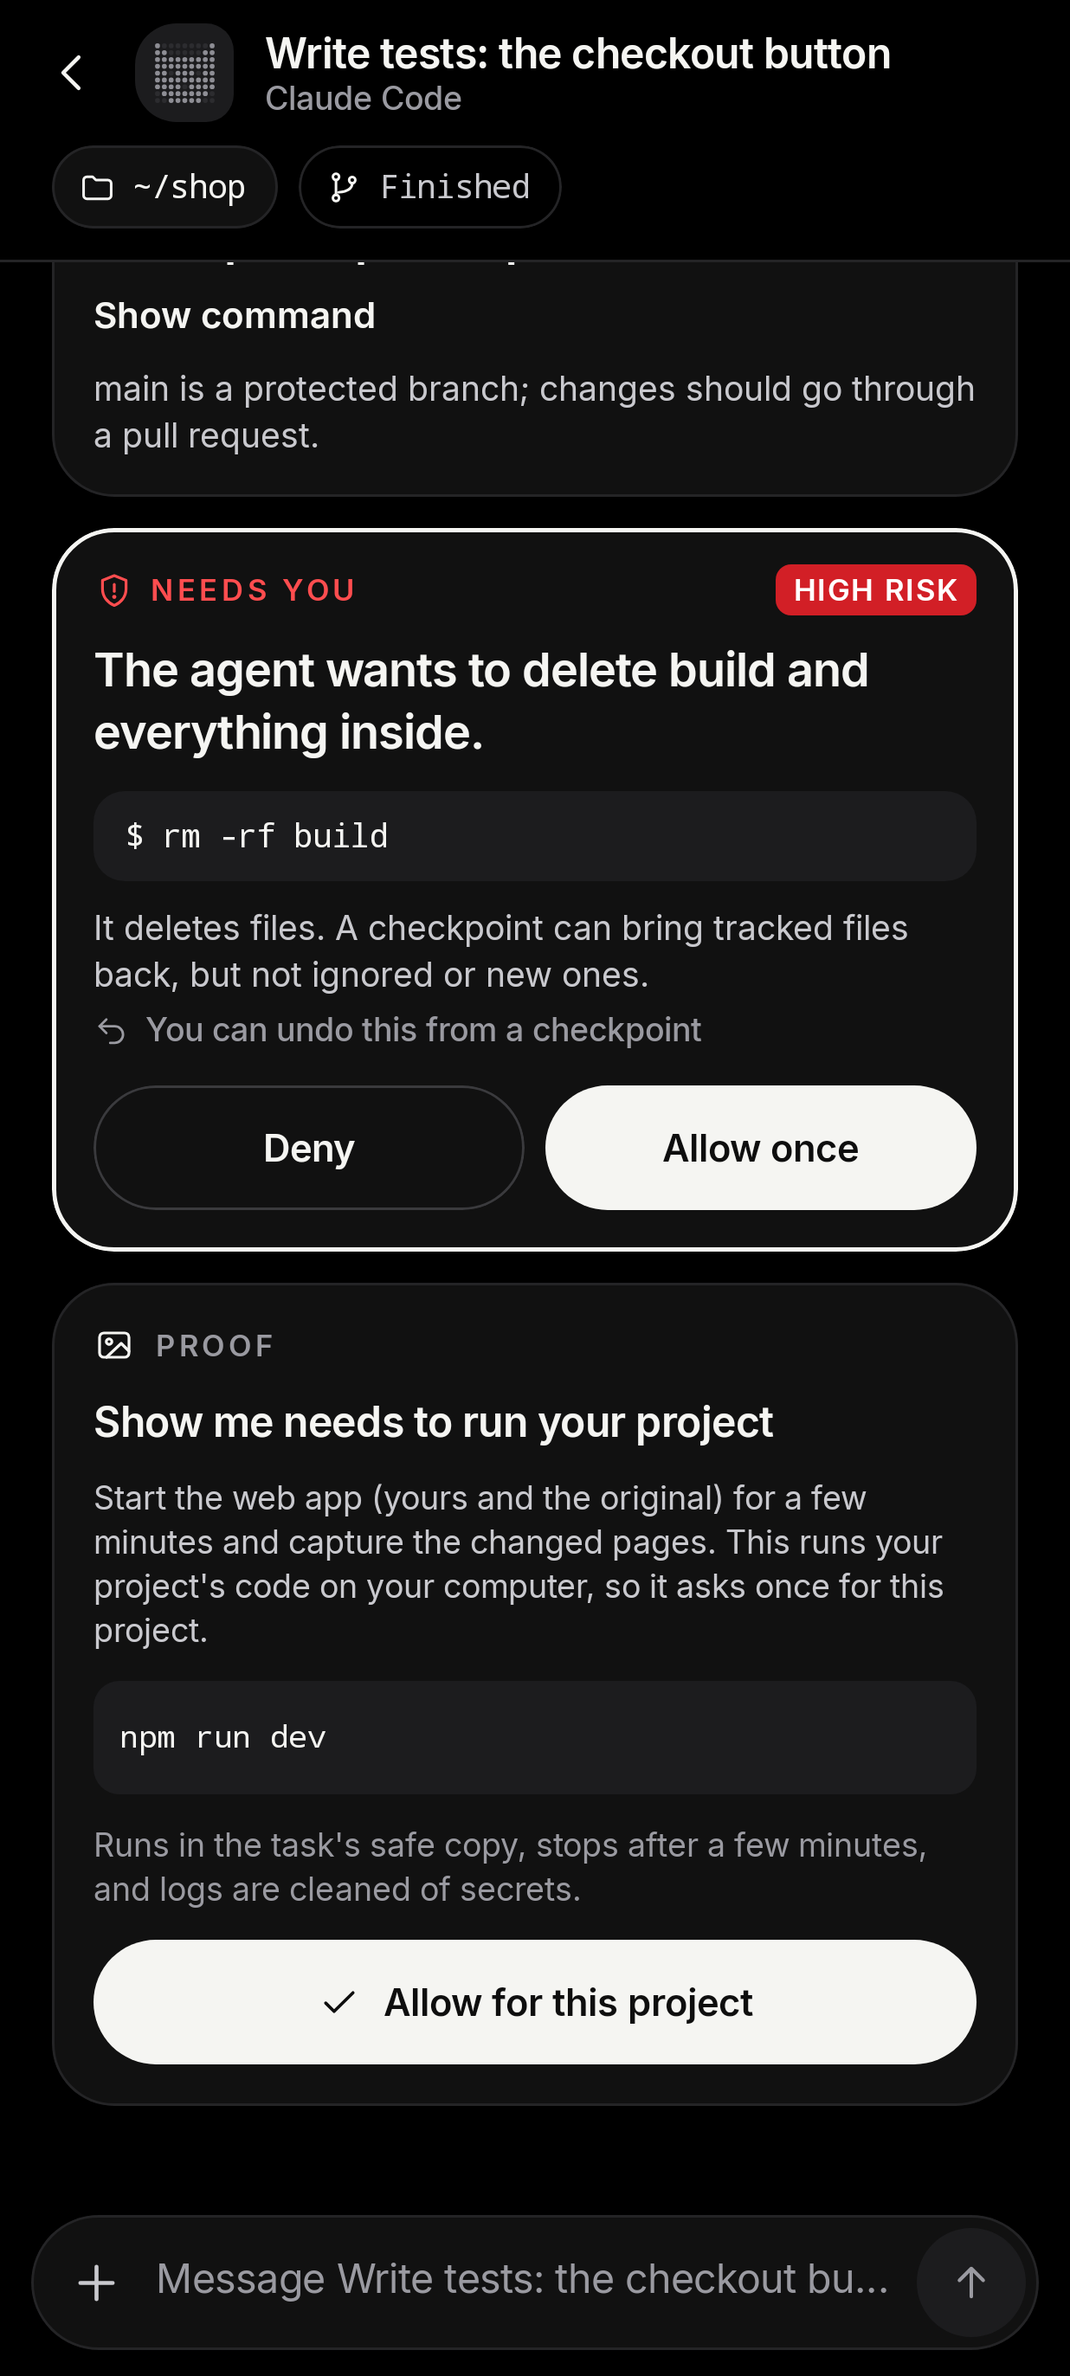
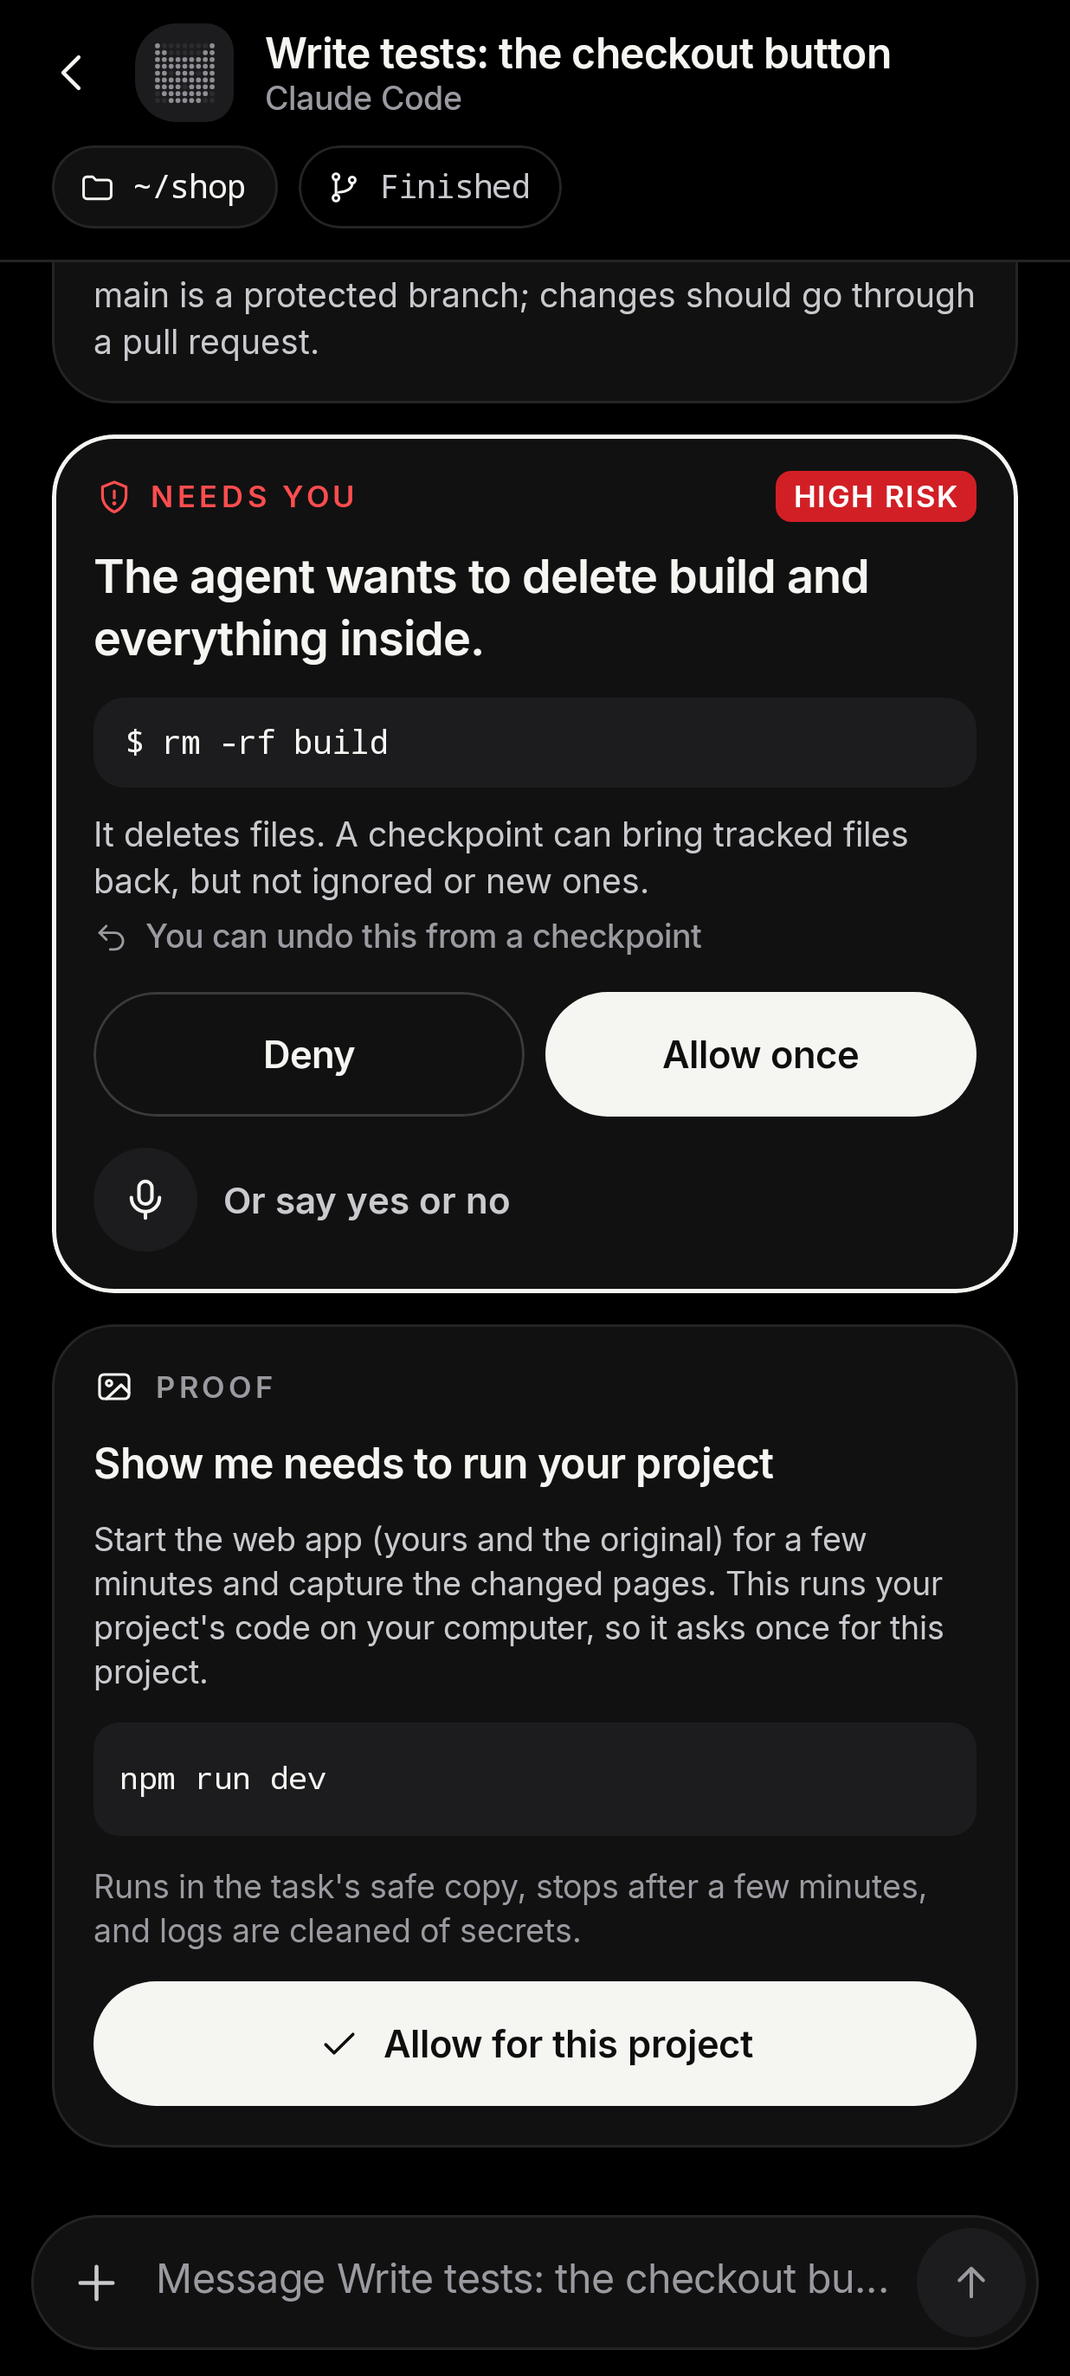
Android: chat/proof cards clear the composer, folder-picker action group, proof needs Git (no false 'Couldn't make the proof')

diff --git a/apps/android/app/src/test/java/com/ragul84/hypurr/ui/InsetsScreenshotTest.kt b/apps/android/app/src/test/java/com/ragul84/hypurr/ui/InsetsScreenshotTest.kt
@@ -1,0 +1,99 @@
+package com.ragul84.hypurr.ui
+
+import androidx.activity.ComponentActivity
+import androidx.compose.foundation.background
+import androidx.compose.foundation.layout.Box
+import androidx.compose.foundation.layout.BoxScope
+import androidx.compose.foundation.layout.fillMaxSize
+import androidx.compose.foundation.layout.fillMaxWidth
+import androidx.compose.foundation.layout.height
+import androidx.compose.runtime.Composable
+import androidx.compose.ui.Alignment
+import androidx.compose.ui.Modifier
+import androidx.compose.ui.graphics.Color
+import androidx.compose.ui.test.junit4.createAndroidComposeRule
+import androidx.compose.ui.test.onNodeWithText
+import androidx.compose.ui.test.onRoot
+import androidx.compose.ui.test.performClick
+import androidx.compose.ui.unit.Dp
+import androidx.compose.ui.unit.dp
+import androidx.core.graphics.Insets
+import androidx.core.view.ViewCompat
+import androidx.core.view.WindowInsetsCompat
+import com.github.takahirom.roborazzi.captureRoboImage
+import com.ragul84.hypurr.data.ThemeMode
+import com.ragul84.hypurr.model.DirListing
+import com.ragul84.hypurr.model.DirEntry
+import com.ragul84.hypurr.model.Proof
+import com.ragul84.hypurr.ui.screens.ChatScreen
+import com.ragul84.hypurr.ui.screens.ProjectFolderPickerScreen
+import com.ragul84.hypurr.ui.screens.ProofCard
+import com.ragul84.hypurr.ui.theme.HypurrTheme
+import org.junit.Rule
+import org.junit.Test
+import org.junit.runner.RunWith
+import org.robolectric.RobolectricTestRunner
+import org.robolectric.annotation.Config
+import org.robolectric.annotation.GraphicsMode
+import java.io.File
+
+/**
+ * Edge-to-edge check: real system-bar insets (status bar plus gesture or 3-button nav) are dispatched
+ * to the window, and the bars are painted translucent on top, so anything drawn under them shows.
+ * Shots: android-insets-<screen>-<small|large>-<gesture|buttons>.png
+ */
+@RunWith(RobolectricTestRunner::class)
+@GraphicsMode(GraphicsMode.Mode.NATIVE)
+@Config(sdk = [35], qualifiers = "w360dp-h640dp-xxhdpi", application = android.app.Application::class)
+class InsetsScreenshotTest {
+    @get:Rule val compose = createAndroidComposeRule<ComponentActivity>()
+    private val dir get() = File(System.getProperty("roborazzi.output.dir") ?: "build/roborazzi").apply { mkdirs() }
+
+    private fun shoot(name: String, nav: Dp, then: () -> Unit = {}, content: @Composable () -> Unit) {
+        compose.setContent {
+            HypurrTheme(ThemeMode.Dark) {
+                Box(Modifier.fillMaxSize()) {
+                    content()
+                    Bars(nav)
+                }
+            }
+        }
+        val px = { d: Dp -> (d.value * compose.activity.resources.displayMetrics.density).toInt() }
+        val insets = WindowInsetsCompat.Builder()
+            .setInsets(WindowInsetsCompat.Type.statusBars(), Insets.of(0, px(24.dp), 0, 0))
+            .setInsets(WindowInsetsCompat.Type.navigationBars(), Insets.of(0, 0, 0, px(nav)))
+            .build()
+        compose.runOnUiThread { ViewCompat.dispatchApplyWindowInsets(compose.activity.window.decorView, insets) }
+        compose.waitForIdle()
+        then()
+        compose.waitForIdle()
+        compose.onRoot().captureRoboImage(File(dir, "android-insets-$name.png").absolutePath)
+    }
+
+    @Composable
+    private fun BoxScope.Bars(nav: Dp) {
+        Box(Modifier.align(Alignment.TopCenter).fillMaxWidth().height(24.dp).background(Color(0x66FF00FF)))
+        Box(Modifier.align(Alignment.BottomCenter).fillMaxWidth().height(nav).background(Color(0x66FF00FF)))
+    }
+
+    private val cRoot = DirListing(path = "C:\\", parent = "", isRoot = true, dirs = listOf(DirEntry("Users", "C:\\Users"), DirEntry("work", "C:\\work")))
+
+    private fun picker(name: String, nav: Dp) = shoot(name, nav, then = { compose.onNodeWithText("Use whole drive C:").performClick() }) {
+        ProjectFolderPickerScreen(emptyList(), cRoot, "C:\\", onBack = {}, onBrowse = {}, onSelect = {}, onConfirm = {})
+    }
+
+    private fun chat(name: String, nav: Dp) = shoot(name, nav) {
+        ChatScreen(Samples.taskBot.copy(task = Samples.task.copy(status = "done"), status = "idle"), Samples.taskChat, "", {},
+            onBack = {}, onSend = {}, onStop = {}, onRespond = { _, _ -> }, now = Samples.NOW,
+            proof = { ProofCard(Proof(status = "unavailable", note = "Proof compares the task's changes with where it started, so it needs this folder to be a Git project.")) })
+    }
+
+    @Test fun pickerSmallGesture() = picker("folder-picker-small-gesture", 24.dp)
+    @Test fun pickerSmallButtons() = picker("folder-picker-small-buttons", 48.dp)
+    @Test @Config(qualifiers = "w800dp-h1280dp-xhdpi") fun pickerLargeGesture() = picker("folder-picker-large-gesture", 24.dp)
+    @Test @Config(qualifiers = "w800dp-h1280dp-xhdpi") fun pickerLargeButtons() = picker("folder-picker-large-buttons", 48.dp)
+    @Test fun chatSmallGesture() = chat("chat-small-gesture", 24.dp)
+    @Test fun chatSmallButtons() = chat("chat-small-buttons", 48.dp)
+    @Test @Config(qualifiers = "w800dp-h1280dp-xhdpi") fun chatLargeGesture() = chat("chat-large-gesture", 24.dp)
+    @Test @Config(qualifiers = "w800dp-h1280dp-xhdpi") fun chatLargeButtons() = chat("chat-large-buttons", 48.dp)
+}

diff --git a/apps/android/app/src/main/java/com/ragul84/hypurr/ui/screens/ProjectFolderPickerScreen.kt b/apps/android/app/src/main/java/com/ragul84/hypurr/ui/screens/ProjectFolderPickerScreen.kt
@@ -12,6 +12,7 @@ import androidx.compose.runtime.setValue
 import androidx.compose.ui.text.style.TextOverflow
 import androidx.compose.foundation.layout.Arrangement
 import androidx.compose.foundation.layout.Column
+import androidx.compose.ui.text.style.TextAlign
 import androidx.compose.foundation.layout.Row
 import androidx.compose.foundation.layout.Spacer
 import androidx.compose.foundation.layout.fillMaxSize
@@ -105,28 +106,32 @@ fun ProjectFolderPickerScreen(
                 }
             }
         }
-        if (pickedRoot && rootWarned) {
-            Text("The agent can see and change everything on this drive.", color = c.needsText,
-                style = MaterialTheme.typography.bodySmall, modifier = Modifier.padding(bottom = 6.dp))
-        }
-        if (!atTop && browsing != null && selectedPath != browsing.path) {
-            SoftButton("Use this folder", Modifier.fillMaxWidth().padding(bottom = 8.dp), icon = signalIcon(SignalIcons.Check), tint = c.text) {
-                onSelect(browsing.path)
+        // One action group above the nav bar: a hairline, then the warning centered directly
+        // over the button it belongs to.
+        Box(Modifier.fillMaxWidth().height(1.dp).background(c.border))
+        Column(Modifier.fillMaxWidth().padding(top = 12.dp, bottom = 16.dp), verticalArrangement = Arrangement.spacedBy(8.dp),
+            horizontalAlignment = Alignment.CenterHorizontally) {
+            if (!atTop && browsing != null && selectedPath != browsing.path) {
+                SoftButton("Use this folder", Modifier.fillMaxWidth(), icon = signalIcon(SignalIcons.Check), tint = c.text) {
+                    onSelect(browsing.path)
+                }
             }
-        }
-        PrimaryButton(
-            when {
-                selectedPath == null -> "Pick a folder first"
-                pickedRoot && !rootWarned -> "Use whole drive ${folderName(selectedPath)}"
-                pickedRoot -> "Yes, use the whole drive"
-                else -> confirmLabel ?: "Use ${folderName(selectedPath)}"
-            },
-            Modifier.fillMaxWidth().padding(bottom = if (onLater != null) 10.dp else 16.dp),
-            enabled = selectedPath != null,
-            onClick = { if (pickedRoot && !rootWarned) rootWarned = true else onConfirm() },
-        )
-        if (onLater != null) {
-            SoftButton("Later", Modifier.fillMaxWidth().padding(bottom = 16.dp), tint = c.text, onClick = onLater)
+            if (pickedRoot && rootWarned) {
+                Text("The agent can see and change everything on this drive.", color = c.needsText,
+                    style = MaterialTheme.typography.bodySmall, textAlign = TextAlign.Center, modifier = Modifier.fillMaxWidth())
+            }
+            PrimaryButton(
+                when {
+                    selectedPath == null -> "Pick a folder first"
+                    pickedRoot && !rootWarned -> "Use whole drive ${folderName(selectedPath)}"
+                    pickedRoot -> "Yes, use the whole drive"
+                    else -> confirmLabel ?: "Use ${folderName(selectedPath)}"
+                },
+                Modifier.fillMaxWidth(),
+                enabled = selectedPath != null,
+                onClick = { if (pickedRoot && !rootWarned) rootWarned = true else onConfirm() },
+            )
+            if (onLater != null) SoftButton("Later", Modifier.fillMaxWidth(), tint = c.text, onClick = onLater)
         }
     }
 }

diff --git a/apps/android/app/src/main/java/com/ragul84/hypurr/ui/screens/ChatScreen.kt b/apps/android/app/src/main/java/com/ragul84/hypurr/ui/screens/ChatScreen.kt
@@ -52,6 +52,8 @@ import androidx.compose.animation.slideOutVertically
 import androidx.compose.foundation.layout.height
 import androidx.compose.ui.Alignment
 import androidx.compose.ui.Modifier
+import androidx.compose.ui.layout.onSizeChanged
+import androidx.compose.ui.platform.LocalDensity
 import androidx.compose.ui.draw.clip
 import androidx.compose.ui.draw.scale
 import androidx.compose.ui.graphics.SolidColor
@@ -180,13 +182,17 @@ fun ChatScreen(
     var actionsFor by remember { mutableStateOf(initialActionsFor?.let { id -> (entries + listOfNotNull(threadRoot)).firstOrNull { it.id == id } }) }
     var viewing by remember { mutableStateOf<Attachment?>(null) }
     val media = AttachmentUi(images, onLoadAttachment, onOpenFile) { viewing = it }
+    // The list clears the real header and composer (status bar, nav bar, keyboard, chips, files),
+    // measured rather than guessed, so the newest card is never hidden behind the composer.
+    val density = LocalDensity.current
+    var headerHeight by remember { mutableStateOf(92.dp) }
+    var composerHeight by remember { mutableStateOf(104.dp) }
     Box(Modifier.fillMaxSize().background(c.bg)) {
         LazyColumn(
             Modifier.fillMaxSize(),
             state = list,
             reverseLayout = true,
-            contentPadding = PaddingValues(start = 20.dp, end = 20.dp, top = 92.dp + (if (folder != null || task != null) 48.dp else 0.dp),
-                bottom = if (composer.files.isEmpty()) 104.dp else 172.dp),
+            contentPadding = PaddingValues(start = 20.dp, end = 20.dp, top = headerHeight + 12.dp, bottom = composerHeight + 16.dp),
             verticalArrangement = Arrangement.spacedBy(12.dp),
         ) {
             if (proof != null && !inThread) item(key = "proof") { Box(Modifier.animateItem()) { proof() } }
@@ -212,7 +218,8 @@ fun ChatScreen(
             } else if (chat.isEmpty()) item(key = "empty") { EmptyChat(bot, bots) }
         }
         // Signal header: bare back chevron, bot tile, name + agent line, more. Chips row under a hairline.
-        Column(Modifier.fillMaxWidth().background(c.bg).statusBarsPadding()) {
+        Column(Modifier.fillMaxWidth().background(c.bg).statusBarsPadding()
+            .onSizeChanged { headerHeight = with(density) { it.height.toDp() } }) {
             Row(Modifier.padding(start = 8.dp, end = 8.dp, top = 8.dp, bottom = 8.dp), verticalAlignment = Alignment.CenterVertically) {
                 IconTile(signalIcon(SignalIcons.Back), "Back", onClick = onBack)
                 Spacer(Modifier.width(4.dp))
@@ -247,7 +254,8 @@ fun ChatScreen(
             }
             Box(Modifier.fillMaxWidth().height(1.dp).background(c.border))
         }
-        Composer(draft, onDraftChange, onSend, Modifier.align(Alignment.BottomCenter), composer, images, onAttach, onRemoveFile,
+        Composer(draft, onDraftChange, onSend, Modifier.align(Alignment.BottomCenter)
+            .onSizeChanged { composerHeight = with(density) { it.height.toDp() } }, composer, images, onAttach, onRemoveFile,
             if (inThread) "Reply in thread" else "Message ${bot.name}…", working = bot.status == "working", onStop = onStop)
         if (task != null) {
             CheckpointSheet(checkpointsOpen, task, now, integrations, initialFinishOpen, onClose = { checkpointsOpen = false },

diff --git a/apps/android/app/src/main/java/com/ragul84/hypurr/ui/screens/ProofCard.kt b/apps/android/app/src/main/java/com/ragul84/hypurr/ui/screens/ProofCard.kt
@@ -86,6 +86,7 @@ fun proofTitle(p: Proof): String = when {
     p.status == "needsApproval" -> "Show me needs to run your project"
     p.status == "running" -> "Making the proof…"
     p.status == "failed" -> "Couldn't make the proof"
+    p.status == "unavailable" -> "Proof needs a Git project"
     p.kind == "web" -> "Your pages, before and after"
     p.kind == "android" -> if (p.shots.any { it.before != null }) "Your screens, before and after" else "Your app on the phone"
     p.tests?.let { it.failed > 0 } == true -> "Some tests failed"
@@ -136,6 +137,8 @@ fun ProofCard(
             when (proof.status) {
                 "needsApproval" -> Approval(proof, busy, onAllow)
                 "running" -> Text(proof.plan?.what?.let { "$it. Servers stop as soon as it's done." } ?: "Working on it.",
+                    color = c.secondary, style = MaterialTheme.typography.bodySmall)
+                "unavailable" -> Text(proof.note.ifBlank { "Proof needs this folder to be a Git project." },
                     color = c.secondary, style = MaterialTheme.typography.bodySmall)
                 "failed" -> {
                     if (proof.note.isNotBlank()) Text(proof.note, color = c.secondary, style = MaterialTheme.typography.bodySmall)

diff --git a/apps/android/app/src/test/java/com/ragul84/hypurr/ui/screens/ProofScreenshotTest.kt b/apps/android/app/src/test/java/com/ragul84/hypurr/ui/screens/ProofScreenshotTest.kt
@@ -120,6 +120,10 @@ class ProofScreenshotTest {
         chat { ProofCard(Proof(status = "running", plan = ProofPlan("web", "Start the web app (yours and the original) for a few minutes and capture the changed pages", "npm run dev"))) }
     }
 
+    @Test fun unavailable() = shoot("proof-unavailable") {
+        chat { ProofCard(Proof(status = "unavailable", note = "Proof compares the task's changes with where it started, so it needs this folder to be a Git project.")) }
+    }
+
     @Test fun webSlider() = shoot("proof-web") { ProofCardAlone { ProofCard(web, images, initialSplit = 0.42f) } }
 
     @Test fun webInChat() = shoot("proof-web-chat") { chat { ProofCard(web, images, initialSplit = 0.5f) } }

diff --git a/apps/android/app/src/main/java/com/ragul84/hypurr/model/Models.kt b/apps/android/app/src/main/java/com/ragul84/hypurr/model/Models.kt
@@ -1005,7 +1005,7 @@ data class ProofVerdict(val ok: Boolean = true, val text: String = "")
 /** Visual proof of a task's result: before/after shots, a clip, test counts, the diff in words. */
 @Serializable
 data class Proof(
-    /** needsApproval | running | ready | failed */
+    /** needsApproval | running | ready | failed | unavailable (folder is not a Git project) */
     val status: String = "",
     val plan: ProofPlan? = null,
     val kind: String = "",

diff --git a/host/src/proof.rs b/host/src/proof.rs
@@ -208,9 +208,16 @@ fn base_rev(task: &Task, dir: &Path) -> Option<String> {
     if let Some(cp) = task.checkpoints.first() {
         return Some(cp.id.clone());
     }
-    let base = task.base.clone().unwrap_or_else(|| "main".into());
-    git(dir, &["merge-base", "HEAD", &base]).map(|s| s.trim().to_owned()).filter(|s| !s.is_empty())
+    // The task's base branch, else the usual default branches (a repo on `master` has no `main`).
+    let first = task.base.clone().unwrap_or_else(|| "main".into());
+    [first.as_str(), "main", "master", "origin/HEAD"]
+        .into_iter()
+        .find_map(|b| git(dir, &["merge-base", "HEAD", b]).map(|s| s.trim().to_owned()).filter(|s| !s.is_empty()))
 }
+
+/// Why there can't be a proof here, in plain words (no Git history to compare against).
+const NO_BASE: &str =
+    "Proof compares the task's changes with where it started, so it needs this folder to be a Git project.";
 
 #[derive(Debug, Clone, PartialEq, Eq)]
 pub struct Change {
@@ -732,6 +739,18 @@ pub async fn start(hub: &Arc<Hub>, b: &Value) -> Result<Value> {
         return get(&hub.store, b);
     }
     let dir = work_dir(&task);
+    let has_base = {
+        let (t, d) = (task.clone(), dir.clone());
+        tokio::task::spawn_blocking(move || base_rev(&t, &d).is_some()).await?
+    };
+    if !has_base {
+        // After a finished task in a plain folder: no card and no "Couldn't make the proof".
+        if b["auto"] == true {
+            return get(&hub.store, b);
+        }
+        save(hub, &id, &json!({"status": "unavailable", "note": NO_BASE, "at": now()}))?;
+        return get(&hub.store, b);
+    }
     let p = tokio::task::spawn_blocking(move || plan(&dir, adb_device())).await?;
     if p.command.is_some() && !allowed(&hub.store, &task.project) {
         save(hub, &id, &json!({"status": "needsApproval", "plan": p.public(), "at": now()}))?;
@@ -754,7 +773,7 @@ pub async fn allow(hub: &Arc<Hub>, b: &Value) -> Result<Value> {
 pub fn after_finish(hub: &Arc<Hub>, task_id: &str) {
     let (h, id) = (hub.clone(), task_id.to_owned());
     tokio::spawn(async move {
-        if let Err(e) = start(&h, &json!({"taskId": id})).await {
+        if let Err(e) = start(&h, &json!({"taskId": id, "auto": true})).await {
             tracing::warn!(task = id, error = format!("{e:#}"), "proof after finish failed");
         }
     });
@@ -1129,5 +1148,19 @@ mod tests {
         std::fs::write(d.join(".hypurr/proof/after-0.png"), "x").unwrap();
         let ch = changes(&d, "HEAD");
         assert_eq!(ch, vec![Change { path: "a.txt".into(), added: 2, removed: 0 }]);
+    }
+
+    #[test]
+    fn base_falls_back_to_master_and_is_none_outside_git() {
+        let d = tmp("master");
+        let g = |a: &[&str]| {
+            assert!(std::process::Command::new("git").args(a).current_dir(&d).output().unwrap().status.success());
+        };
+        g(&["init", "-q", "-b", "master"]);
+        g(&["-c", "user.email=a@b", "-c", "user.name=a", "commit", "-q", "--allow-empty", "-m", "base"]);
+        let task: Task = serde_json::from_value(json!({"id": "t", "botId": "b", "goal": "g", "title": "x", "projectName": "p", "backend": "codex", "createdAt": 0, "updatedAt": 0, "project": d.display().to_string()}))
+            .expect("minimal task");
+        assert!(base_rev(&task, &d).is_some());
+        assert!(base_rev(&task, &tmp("plain")).is_none());
     }
 }
